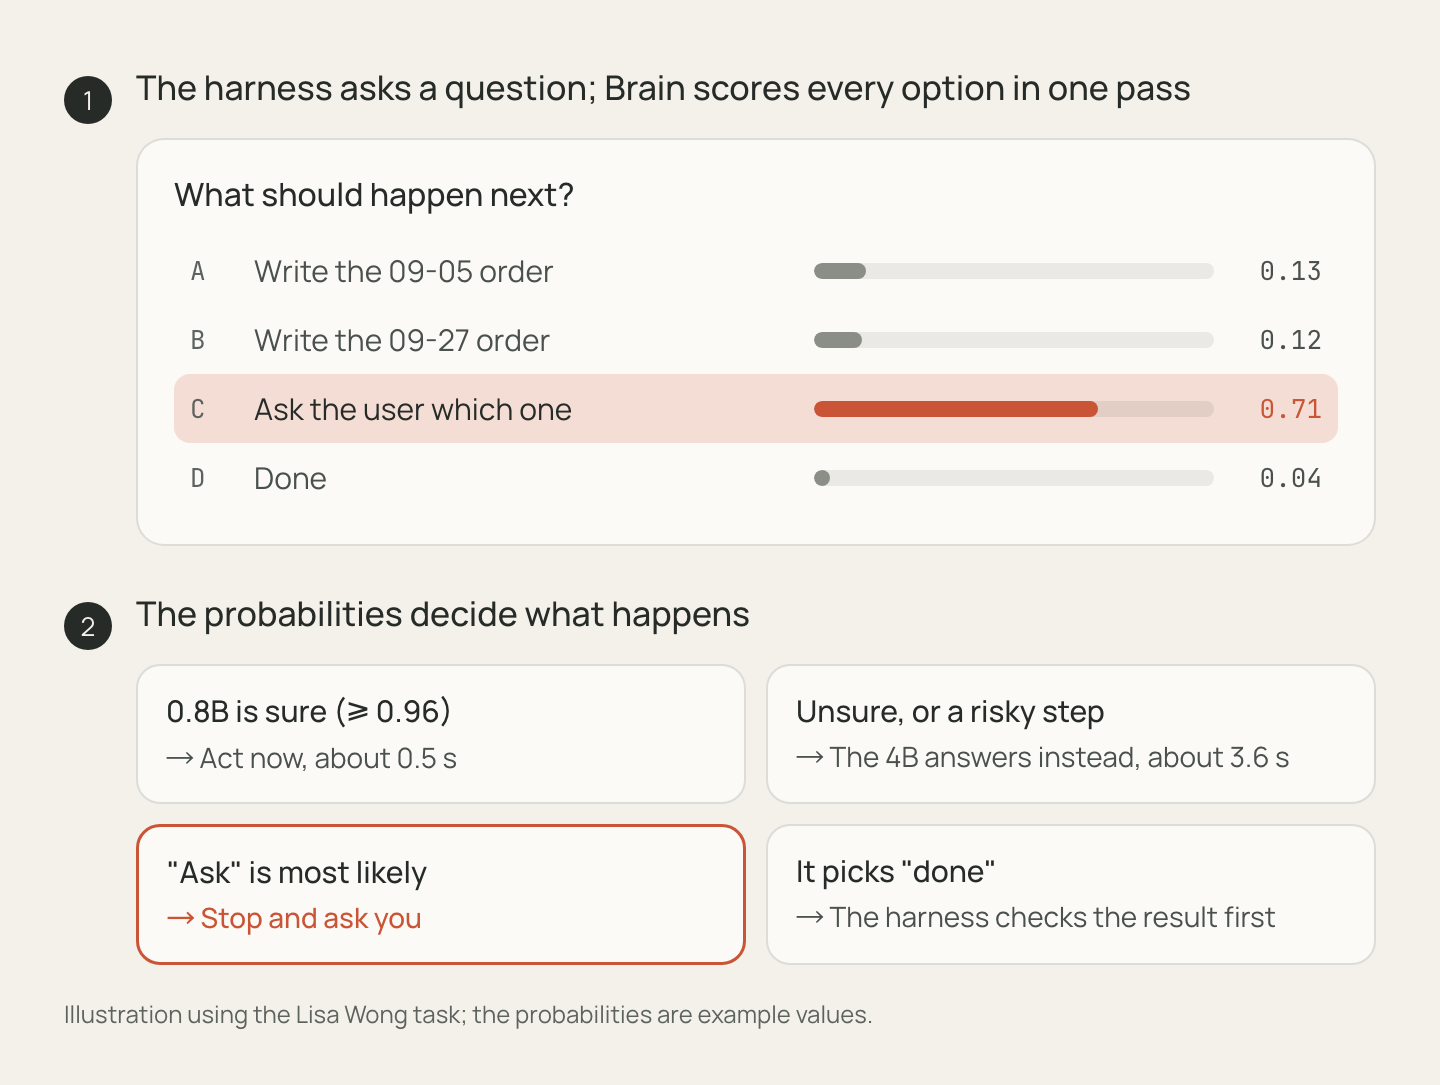
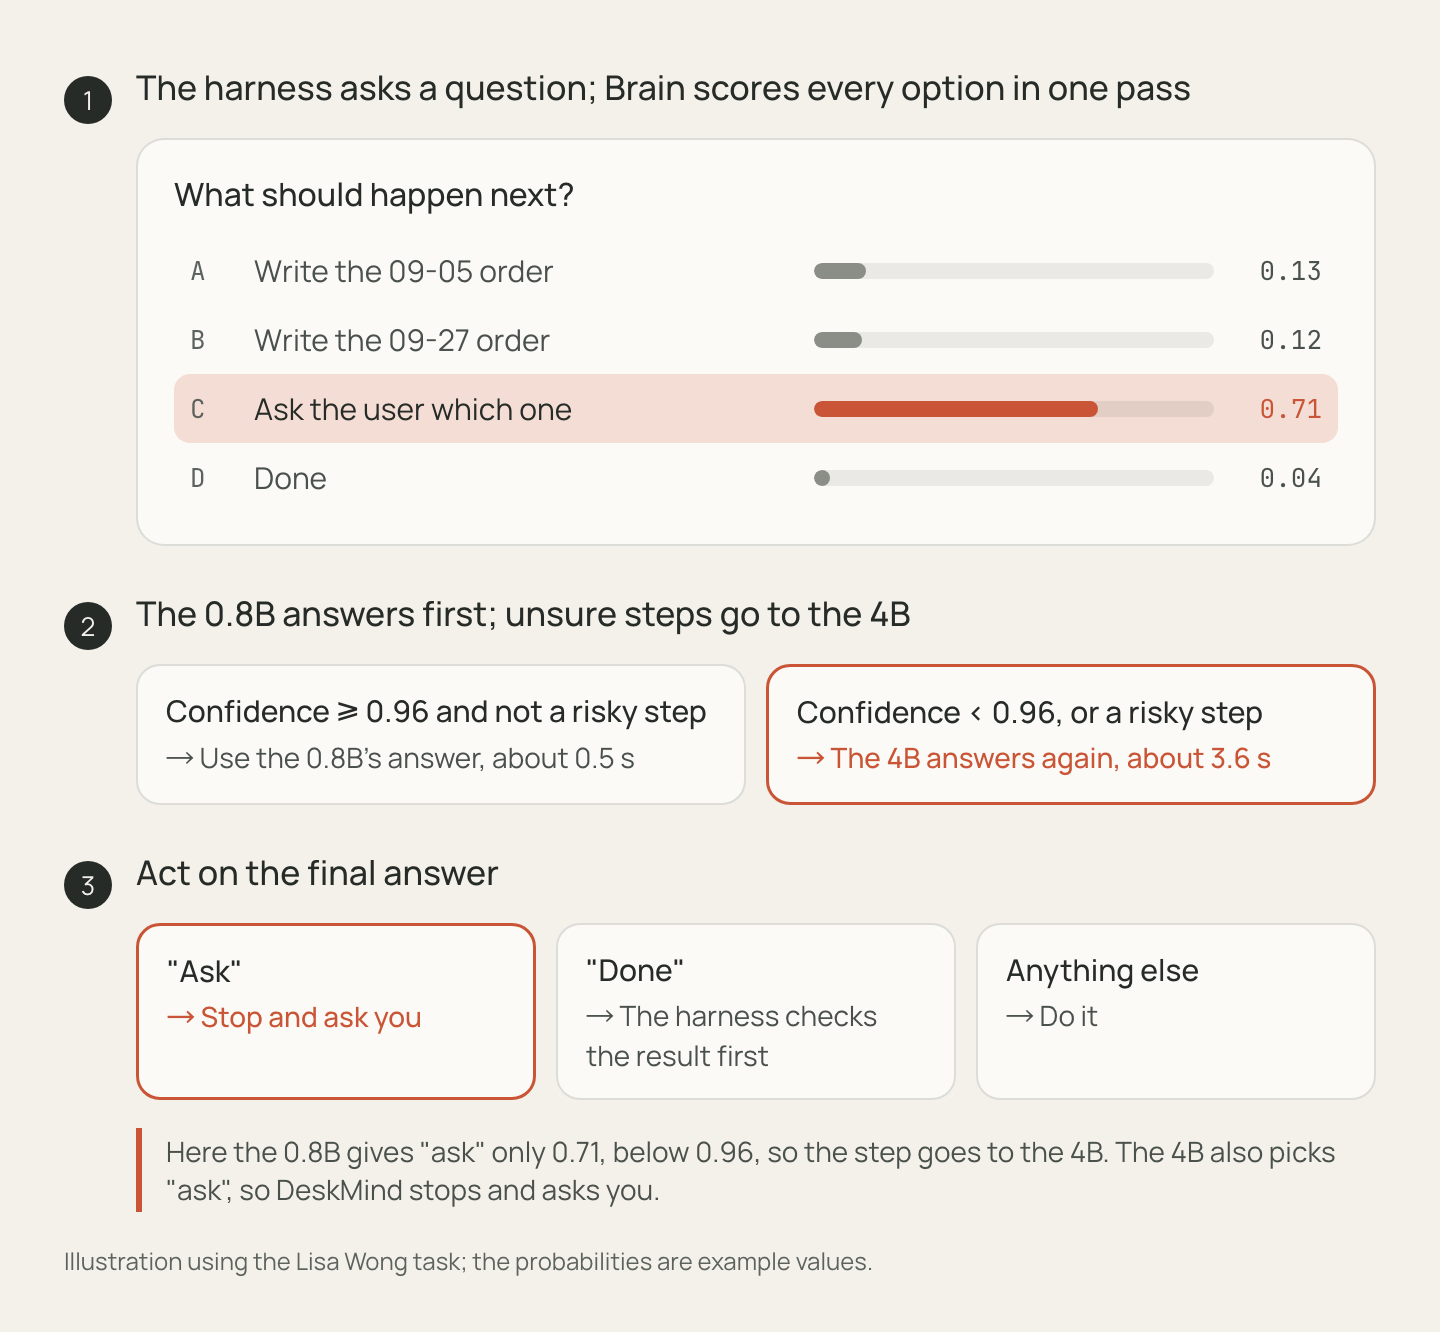
blog: reader feedback pass (what you'll learn up front, router quickstart, exact G04 caveat, linked results, sequential decision diagram, ZH title says it asks)
Claude-Session: https://claude.ai/code/session_01P2fwt23YBwc8pGcUJCrYtD

diff --git a/src/pages/blog/launch.md b/src/pages/blog/launch.md
@@ -3,14 +3,14 @@ layout: ../../layouts/Post.astro
 title: "3 weeks, 20 training rounds, $600: a local computer use agent that asks first"
 description: "Why I trained a small local decision model and its harness together for a Mac computer use agent, and what twenty rounds taught me."
 lang: en
-date: October 2026
+date: October 5, 2026
 ---
 
 # 3 weeks, 20 training rounds, $600: a local computer use agent that asks first
 
 *I trained a small Jev-style decision model to drive my Mac*
 
-The day after Jev launched, I started a new repo to find out one thing: can a model small enough to fit on a Mac make Jev-style decisions, one step at a time, and actually drive my computer?
+The day after TypeSafe launched [Jev](https://typesafe.ai/blog/introducing-system-one-models-and-jev), its decision model, I started a new repo to find out one thing: can a model small enough to fit on a Mac make Jev-style decisions, one step at a time, and actually drive my computer?
 
 Three weeks in, counting the vision model I'd started a few days earlier, that's about twenty training rounds and roughly $600. The answer so far is partly. And there's one thing it does better than most agents I've tried. When it isn't sure, it stops and asks.
 
@@ -22,6 +22,8 @@ DeskMind is an open-source computer use agent for the Mac, and every decision is
 
 [Demo (56 s)](https://deskmind.dev/?ref=blog) · [Mac app](https://github.com/deskmind-ai/app/releases/latest) ·
 [GitHub](https://github.com/deskmind-ai)
+
+This post is how I built it and where it went wrong. If you build agents, three things might be worth your time. An agent only learns to ask if the harness gives it an "ask" option. "Done" has to be checked, not believed. And smoothing my labels to 0.95 squeezed the 0.8B's confidence right up against the routing threshold, which is why 70% of steps go to the slow model.
 
 ## Why I wanted it local
 
@@ -39,7 +41,7 @@ So I wanted to know how far a small local model could get if the code around it,
 
 I started with seeing, because plenty of apps have no accessibility tree and you have to find the button in pixels. That became Eyes, a 4B grounding model. It was also my first time post-training anything. I did SFT and then RL, and the platform followed the money. Tinker was the easiest and the most expensive. Aliyun PAI was cheaper. In the end I just rented GPUs by the hour, which was the best deal.
 
-Then Jev came out and decision models were suddenly everywhere. The idea clicked for me immediately. Don't ask a chat model to write out its next action. Ask it a multiple-choice question and read a probability for every option. It's fast, there's nothing to parse, and it knows when it isn't sure.
+Then Jev came out and decision models were suddenly everywhere. The idea clicked for me immediately. Don't ask a chat model to write out its next action. Ask it a multiple-choice question and read a probability for every option. It's fast, there's nothing to parse, and a low probability shows you when it's hesitating.
 
 The catch was that it's a cloud API, and I didn't want a cloud dependency in the middle of a local agent. So I tried to train my own. That's Brain: Qwen3.5 0.8B and 4B with LoRA, running as 8-bit MLX on Apple Silicon, speaking the same `/v1/systemone` format.
 
@@ -63,9 +65,9 @@ That loop, where the model shapes the harness and the harness shapes the model, 
 
 Each step becomes a few typed questions: which operation, which element, which value. Brain reads the logits of the option letters in a single prefill and returns a probability for each option. It never writes free text.
 
-<figure class="fig"><img src="/blog/decide-en.png" alt="Diagram: the harness asks a multiple-choice question, Brain scores every option, and the probabilities decide whether to act, hand the step to the 4B, ask the user, or check before accepting done." width="1440" loading="lazy"></figure>
+<figure class="fig"><img src="/blog/decide-en.png" alt="Diagram: the harness asks a multiple-choice question and Brain scores every option. If the 0.8B is below 0.96 the 4B answers again. A final "ask" stops and asks you; a final "done" is checked first." width="1440" loading="lazy"></figure>
 
-The probabilities do three jobs. The 0.8B answers first, and if it's below 0.96, or the step is risky, the 4B answers instead. If two options are both plausible, one of them can be "ask". And "done" only counts after the harness checks the final state.
+The probabilities decide what happens next. The 0.8B answers first, and if it's below 0.96, or the step is risky, the 4B answers again. When two options are both plausible, the harness adds "ask" to the list, and if that's the final answer, it stops and asks you. If the final answer is "done", it only counts after the harness checks the final state.
 
 It has limits. Multiple choice gets rid of format errors, not judgement errors. If the right option isn't in the list, the model will still pick something.
 
@@ -85,11 +87,11 @@ The numbers, with their caveats:
 
 | | Result | Scope |
 |---|---|---|
-| Real desktop (bench v25) | **39/39 passed, 0 false "done"** | 13 tasks × 3 runs, one M4 Pro, through the app |
-| ScreenSpot-Pro (Eyes) | **50.9%** as the app runs it; 67.7% on a GPU at full resolution | The gap is mostly resolution |
-| JevBench v1.4.2, public set | **0.835** (193/231), 4B | Sealed run pending |
+| Real desktop (bench v25) | **39/39 correct results, 0 false "done"** | 13 tasks I wrote × 3 runs, one M4 Pro, through the app; [per-task results](https://github.com/deskmind-ai/bench/blob/main/results/reference.md) |
+| ScreenSpot-Pro (Eyes) | **50.9%** as the app runs it; 67.7% on a GPU at full resolution | Mostly resolution: on the same 300 items, 2 MP scores 49.3% and 4 MP 59.0% |
+| JevBench v1.4.2, public set | **0.835** (193/231), 4B | [Submission](https://github.com/fstandhartinger/jevbench/issues/173); sealed run pending |
 
-39/39 sounds better than it is. It's 13 tasks I wrote, on one machine. In one task the model got the file right but never said "done" and ran out of steps, which still counts as a pass because the grader checks the result. The bench and every per-task result are public, so please run it yourself. It still struggles with tables longer than about four rows and with forms filled from a photographed receipt.
+39/39 sounds better than it is. It's 13 tasks I wrote, on one machine. In all 3 runs of one task (G04) the model got the file right but never said "done" and used up its 20 steps, which still counts as a pass because the grader checks the result. The bench and [every per-task result](https://github.com/deskmind-ai/bench/blob/main/results/reference.md) are public, so please run it yourself. It still struggles with tables longer than about four rows and with forms filled from a photographed receipt.
 
 ## What twenty training rounds taught me
 
@@ -97,7 +99,7 @@ The numbers, with their caveats:
 
 **The shape of a prompt can leak the label.** My "done" examples had fewer questions than the others, so the model learned that a short prompt means done.
 
-**A fixed soft label flattens confidence.** I trained the 0.8B on labels smoothed to 0.95. Its confidence collapsed into a 0.94–0.97 band, so the router couldn't tell easy steps from hard ones. That's the 70% escalation rate above. Next round it learns from the 4B's real probabilities instead.
+**A fixed soft label flattens confidence.** I trained the 0.8B on labels smoothed to 0.95. Its confidence collapsed into a 0.94–0.97 band, so the router couldn't tell easy steps from hard ones. That's the 70% escalation rate above. Next round it learns from the 4B's predicted probabilities instead.
 
 <figure class="fig"><img src="/blog/confidence-en.png" alt="Histogram: of 1,700 decisions by the G18b 0.8B, 68% have confidence between 0.94 and 0.97, the 0.96 threshold sits in the middle, and none reach 0.98." width="1440" loading="lazy"></figure>
 
@@ -105,7 +107,7 @@ The numbers, with their caveats:
 
 ## Thanks, Claude Code
 
-Three weeks, five repos, a Mac app, a benchmark and about twenty training rounds. I couldn't have finished that without Claude Code. I had several sessions running in parallel, one on the models and training and one on the harness, the app and the evals. They coordinated through issues in a private repo, wrote most of the code, ran the training and the desktop tests, and caught a lot of my mistakes. My job was deciding what to build, what to measure, and when something was good enough to ship.
+Three weeks, five repos, a Mac app, a benchmark and about twenty training rounds. I couldn't have finished that without Claude Code. I had several sessions running in parallel, one on the models and training and one on the harness, the app and the evals. They coordinated through issues in a private repo, wrote most of the code, ran the training and the desktop tests, and caught a lot of my mistakes. My job was deciding what to build, what to measure, and when something was good enough to ship. Whoever wrote the code, every release still has to pass the real-desktop gate.
 
 ## Try it
 
@@ -117,11 +119,12 @@ Or use Brain in your own agent:
 ```bash
 git clone https://github.com/deskmind-ai/brain && cd brain
 uv sync --extra mlx
+uv run hf download deskmind/brain-0.8b --revision g18b-q8 --local-dir models/brain-0.8b
 uv run hf download deskmind/brain-4b --revision g18b-q8 --local-dir models/brain-4b
-uv run deskmind-brain-serve --predictor mlx:models/brain-4b --port 8793 --two-stage
-curl -s localhost:8793/v1/systemone -H 'Content-Type: application/json' -d @examples/request.json
+uv run deskmind-brain-serve --predictor mlx:models/brain-0.8b --escalate-to mlx:models/brain-4b --two-stage --port 8796
+curl -s localhost:8796/v1/systemone -H 'Content-Type: application/json' -d @examples/request.json
 ```
 
 There's a 30-line client in the [docs](https://deskmind.dev/docs/?ref=blog).
 
-Next up: a faster 0.8B, more apps, and a cloud tier for the steps a local model shouldn't decide. If you've ever built an agent around a model you couldn't touch, I'd love to hear whether owning both sides would change how you work. Issues and [Discussions](https://github.com/deskmind-ai/deskmind/discussions) are open.
+Next up: a faster 0.8B, more apps, and a cloud tier for the steps a local model shouldn't decide. If you've ever built an agent around a model you couldn't touch, I'd love to hear whether owning both sides would change how you work. The easiest way to help: give it an ambiguous task and see whether it asks or guesses. If it guesses wrong, post the example in [Issues](https://github.com/deskmind-ai/deskmind/issues). For ideas and questions, there's [Discussions](https://github.com/deskmind-ai/deskmind/discussions).
